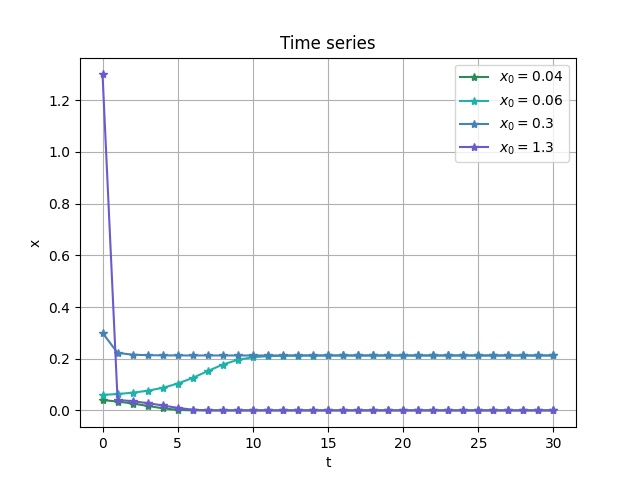
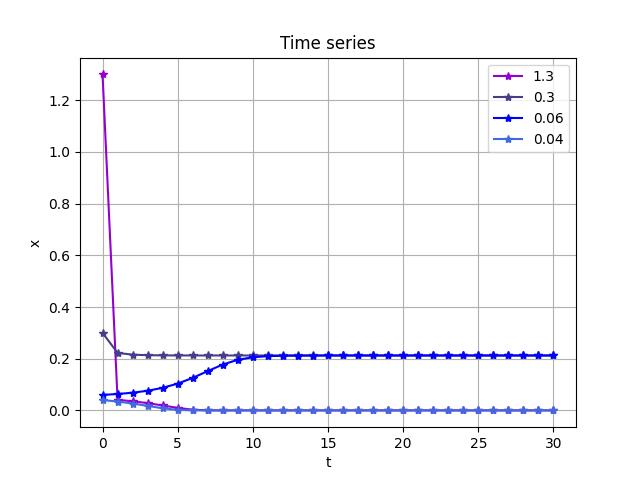
Ref

Changed region(s): [[0.1562, 0.125, 0.875, 0.875], [0.7188, 0.125, 0.875, 0.3438]]

diff --git a/grpah/runner.py b/grpah/runner.py
@@ -19,7 +19,7 @@ from functions_pkg import functions_b_noise, base_functions, functions_a_noise, 
 from plotter import Plotter
 
 
-def run_time_series():
+def run_time_series_without_chaos_1():
     source = time_series(
         time_range=range(1, 50 + 1),
         x_start=1.3,
@@ -33,21 +33,54 @@ def run_time_series():
         .show_last())
 
 
-def run_time_series_2():
+def run_time_series_without_chaos_composition():
+    time_range = range(1, 30 + 1)
+    a = 1
+    b = 0.56
+
     source = time_series(
-        time_range=range(1, 50 + 1),
-        x_start=2.1,
-        f=lambda x: functions.f(1, 0.48, x),
+        time_range=time_range,
+        x_start=1.3,
+        f=lambda x: functions.f(a, b, x),
         skip=False
     )
 
-    (Plotter()
-        .setup('t', 'x', 'linear', 'major', 'Time series')
-        .plot(source[0], source[1], '*', 'steelblue')
-        .show_last())
+    plotter = (Plotter()
+               .setup('t', 'x', 'linear', 'major', 'Time series')
+               .plot(source[0], source[1], '*', 'darkviolet', '1.3'))
+
+    source = time_series(
+        time_range=time_range,
+        x_start=0.3,
+        f=lambda x: functions.f(a, b, x),
+        skip=False
+    )
+
+    plotter.plot(source[0], source[1], '*', 'darkslateblue', '0.3')
+
+    source = time_series(
+        time_range=time_range,
+        x_start=0.06,
+        f=lambda x: functions.f(a, b, x),
+        skip=False
+    )
+
+    plotter.plot(source[0], source[1], '*', 'blue', '0.06')
+
+    source = time_series(
+        time_range=time_range,
+        x_start=0.04,
+        f=lambda x: functions.f(a, b, x),
+        skip=False
+    )
+
+    (plotter
+     .plot(source[0], source[1], '*', 'royalblue', '0.04')
+     .legend()
+     .show_last())
 
 
-def run_time_series_3():
+def run_time_series_different_noises():
     time_range = range(1, 250 + 1)
     x_start = 0.06
     skip = False
@@ -256,7 +289,8 @@ def run_bifurcation():
 
     (Plotter()
         .setup(r'$\beta$', 'x', 'log', 'major', 'Bifurcation')
-        .scatter(source[0], source[1], '.', 'steelblue')
+        .scatter(source[0], source[1], '.', 'steelblue', 'aa')
+        .legend()
         .show_last())
 
 

diff --git a/grpah/plotter.py b/grpah/plotter.py
@@ -4,6 +4,7 @@ from matplotlib import pyplot as plt
 class Plotter:
     def __init__(self):
         self.fig, self.ax = plt.subplots()
+        self._legend = dict()
 
     def setup(self, x_label, y_label, y_scale, grid, title):
         plt.xlabel(x_label)
@@ -14,18 +15,30 @@ class Plotter:
         self.fig.canvas.manager.set_window_title(title)
         return self
 
-    def plot(self, draw_x, draw_y, marker, color):
-        plt.plot(draw_x, draw_y, marker=marker, color=color)
+    def plot(self, draw_x, draw_y, marker, color, name=""):
+        line = plt.plot(draw_x, draw_y, marker=marker, color=color)
+        self._legend[line[0]] = name
         return self
 
-    def scatter(self, draw_x, draw_y, marker, color):
-        plt.scatter(draw_x, draw_y, marker=marker, rasterized=True, linewidths=0.01, color=color)
+    def scatter(self, draw_x, draw_y, marker, color, name=""):
+        scatter = plt.scatter(draw_x, draw_y, marker=marker, rasterized=True, linewidths=0.01, color=color)
+        self._legend[scatter] = name
         return self
 
     def show(self):
         plt.show(block=False)
-
         return self
 
     def show_last(self):
         plt.show(block=True)
+
+    def legend(self):
+        lines = []
+        names = []
+        for k in self._legend:
+            lines.append(k)
+            names.append(self._legend[k])
+        # plt.legend(lines, names)
+        # plt.legend()
+        self.ax.legend(lines, names)
+        return self

diff --git a/latex/stochastic.tex b/latex/stochastic.tex
@@ -2,7 +2,7 @@
 
     \subsection{Описание изменений}
 
-        Пришло время провести Стохастический анализ. В модели появляется слагаемое, которое отвечает за шум. Это слагаемое имеет следующий вид: \(\varepsilon \xi\). \(\varepsilon\) --- интенсивность шума, а \(\xi\) --- нормальная случайная величина.
+        Пришло время провести стохастический анализ. В модели появляется слагаемое, которое отвечает за шум. Это слагаемое имеет следующий вид: \(\varepsilon \xi\), где \(\varepsilon\) --- интенсивность шума, а \(\xi\) --- нормальная случайная величина.
 
         В данную модель шум можно внести тремя способами.
 

diff --git a/grpah/main.py b/grpah/main.py
@@ -5,10 +5,10 @@ if __name__ == "__main__":
     print("Run")
 
     # Показать график временного ряда
-    # run_time_series()
-    # run_time_series_2()
-    # run_time_series_3()
+    # run_time_series_without_chaos_1()
+    # run_time_series_different_noises()
     # run_time_series_compare_noise()
+    run_time_series_without_chaos_composition()
 
     # Показать график бифуркации
     # run_bifurcation()
@@ -63,7 +63,7 @@ if __name__ == "__main__":
     # run_cyclic_variance()
 
     # Функция стохастической чувствительности
-    run_stochastic_sensitivity_b_noise()
+    # run_stochastic_sensitivity_b_noise()
     # run_stochastic_sensitivity_a_noise()
     # run_stochastic_sensitivity_additive_noise()
 
